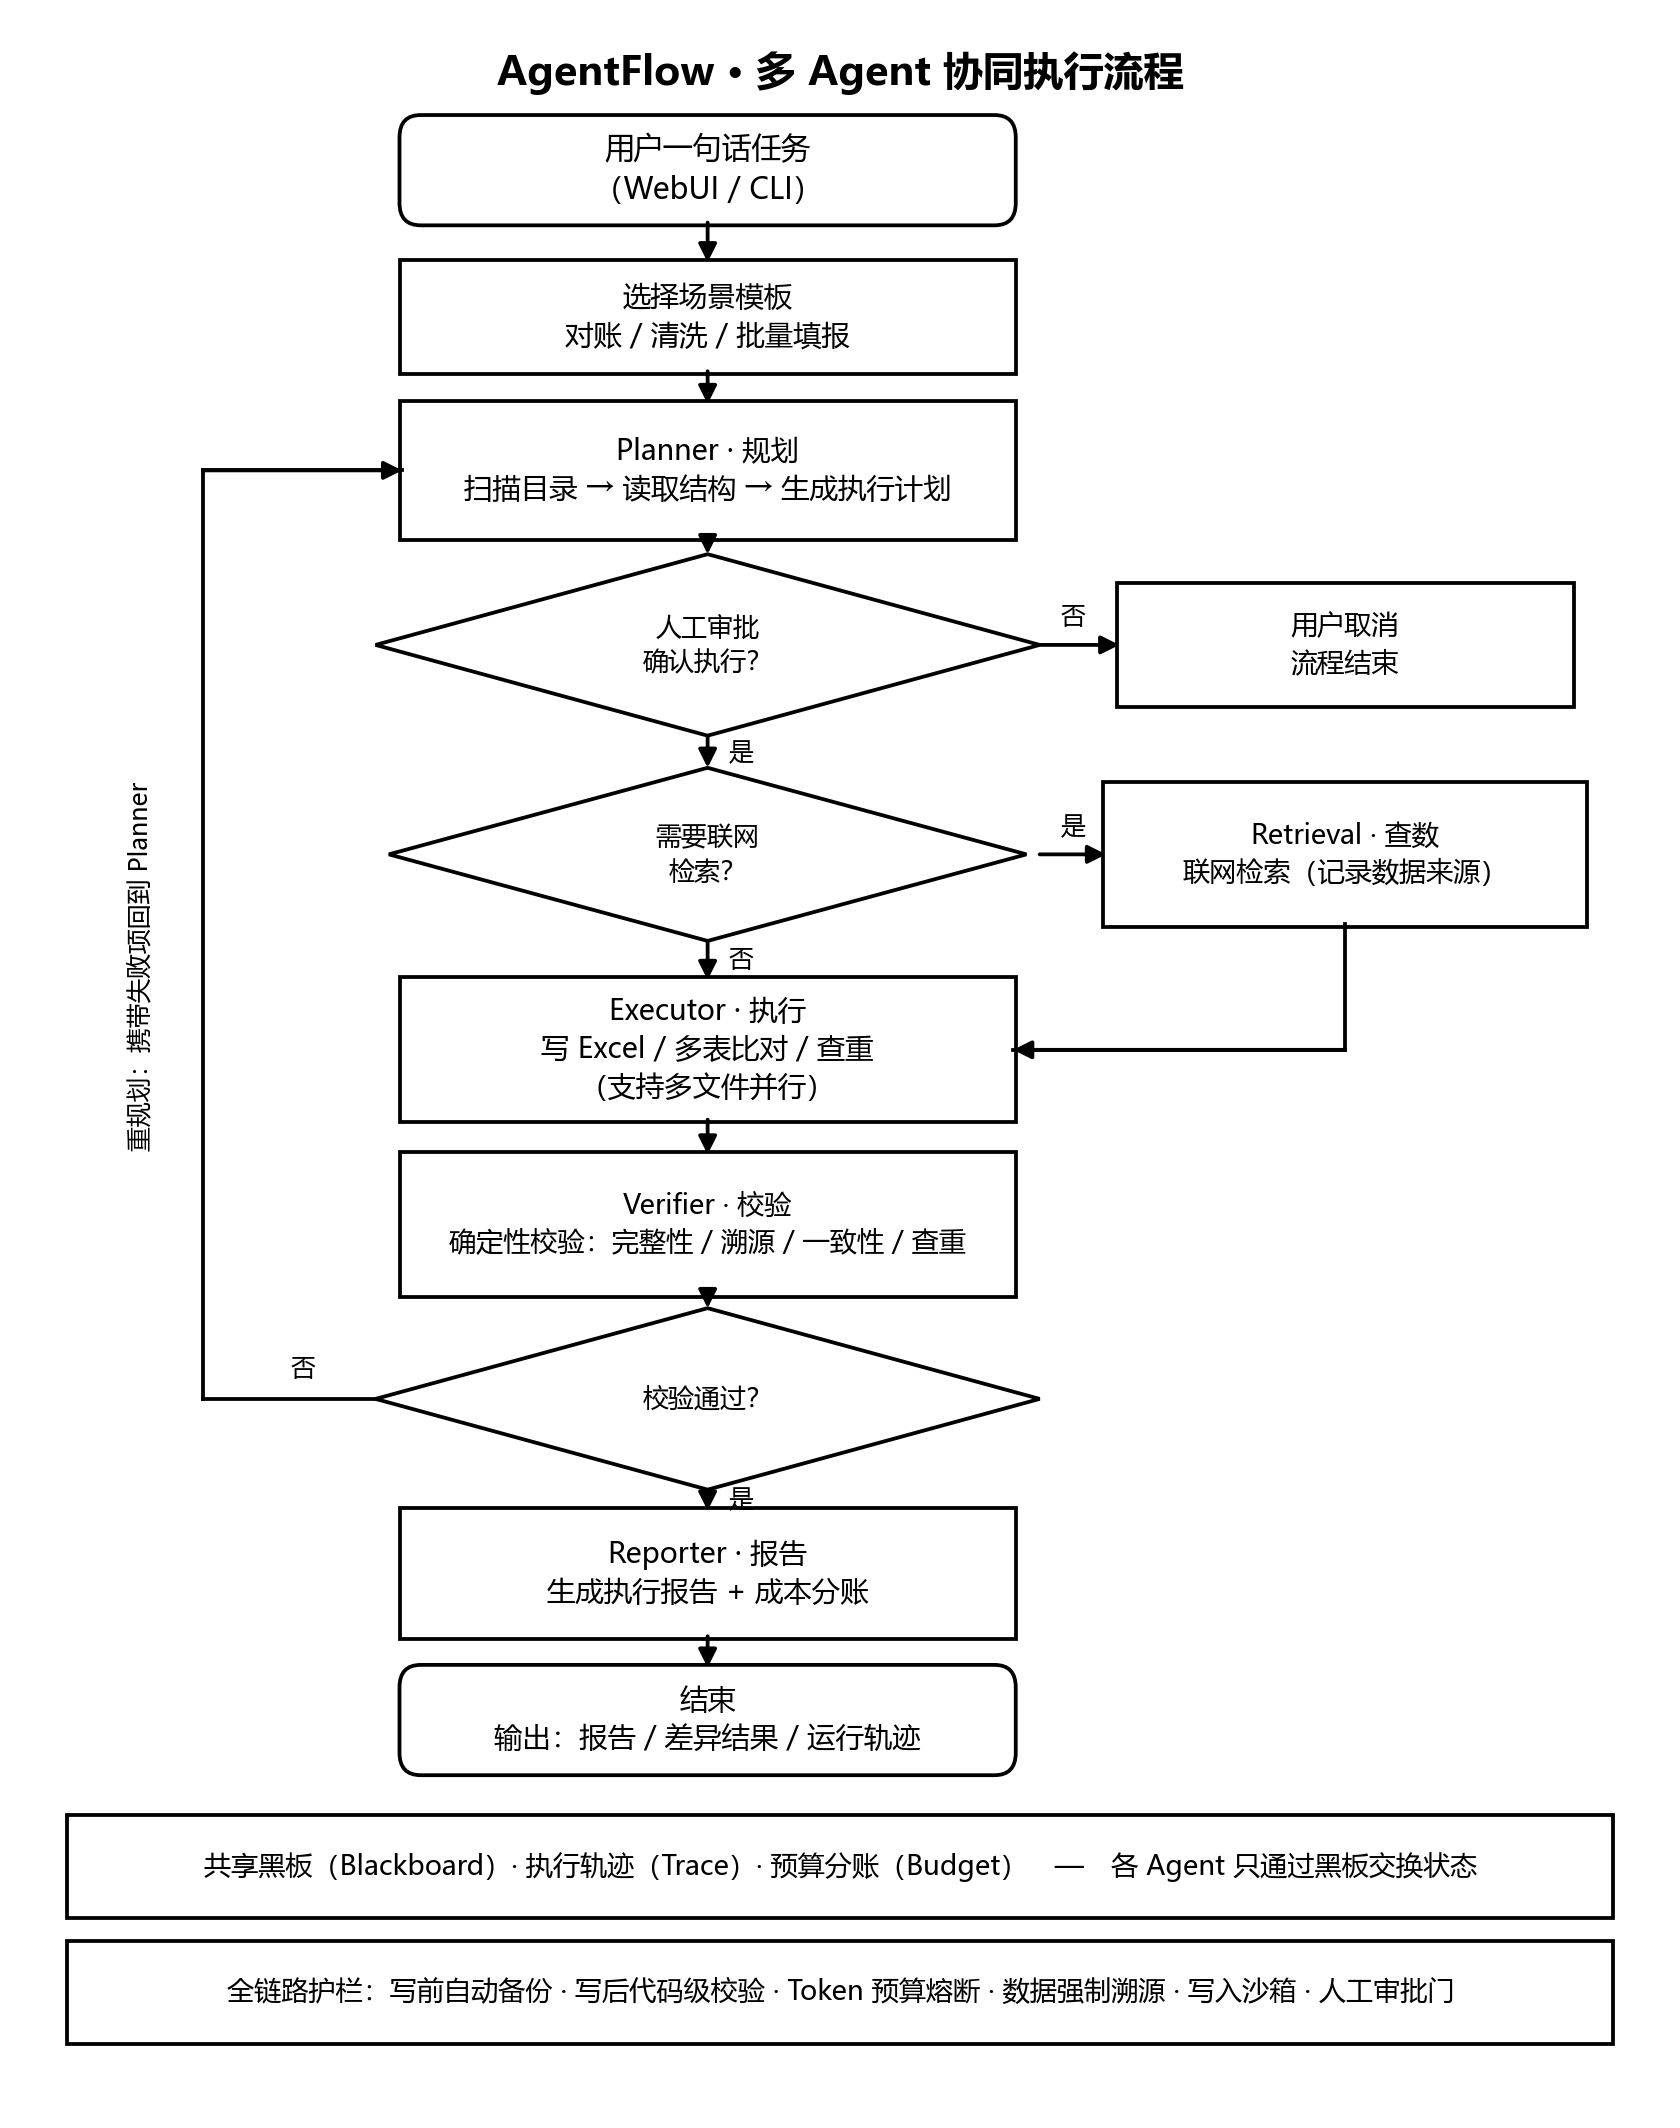
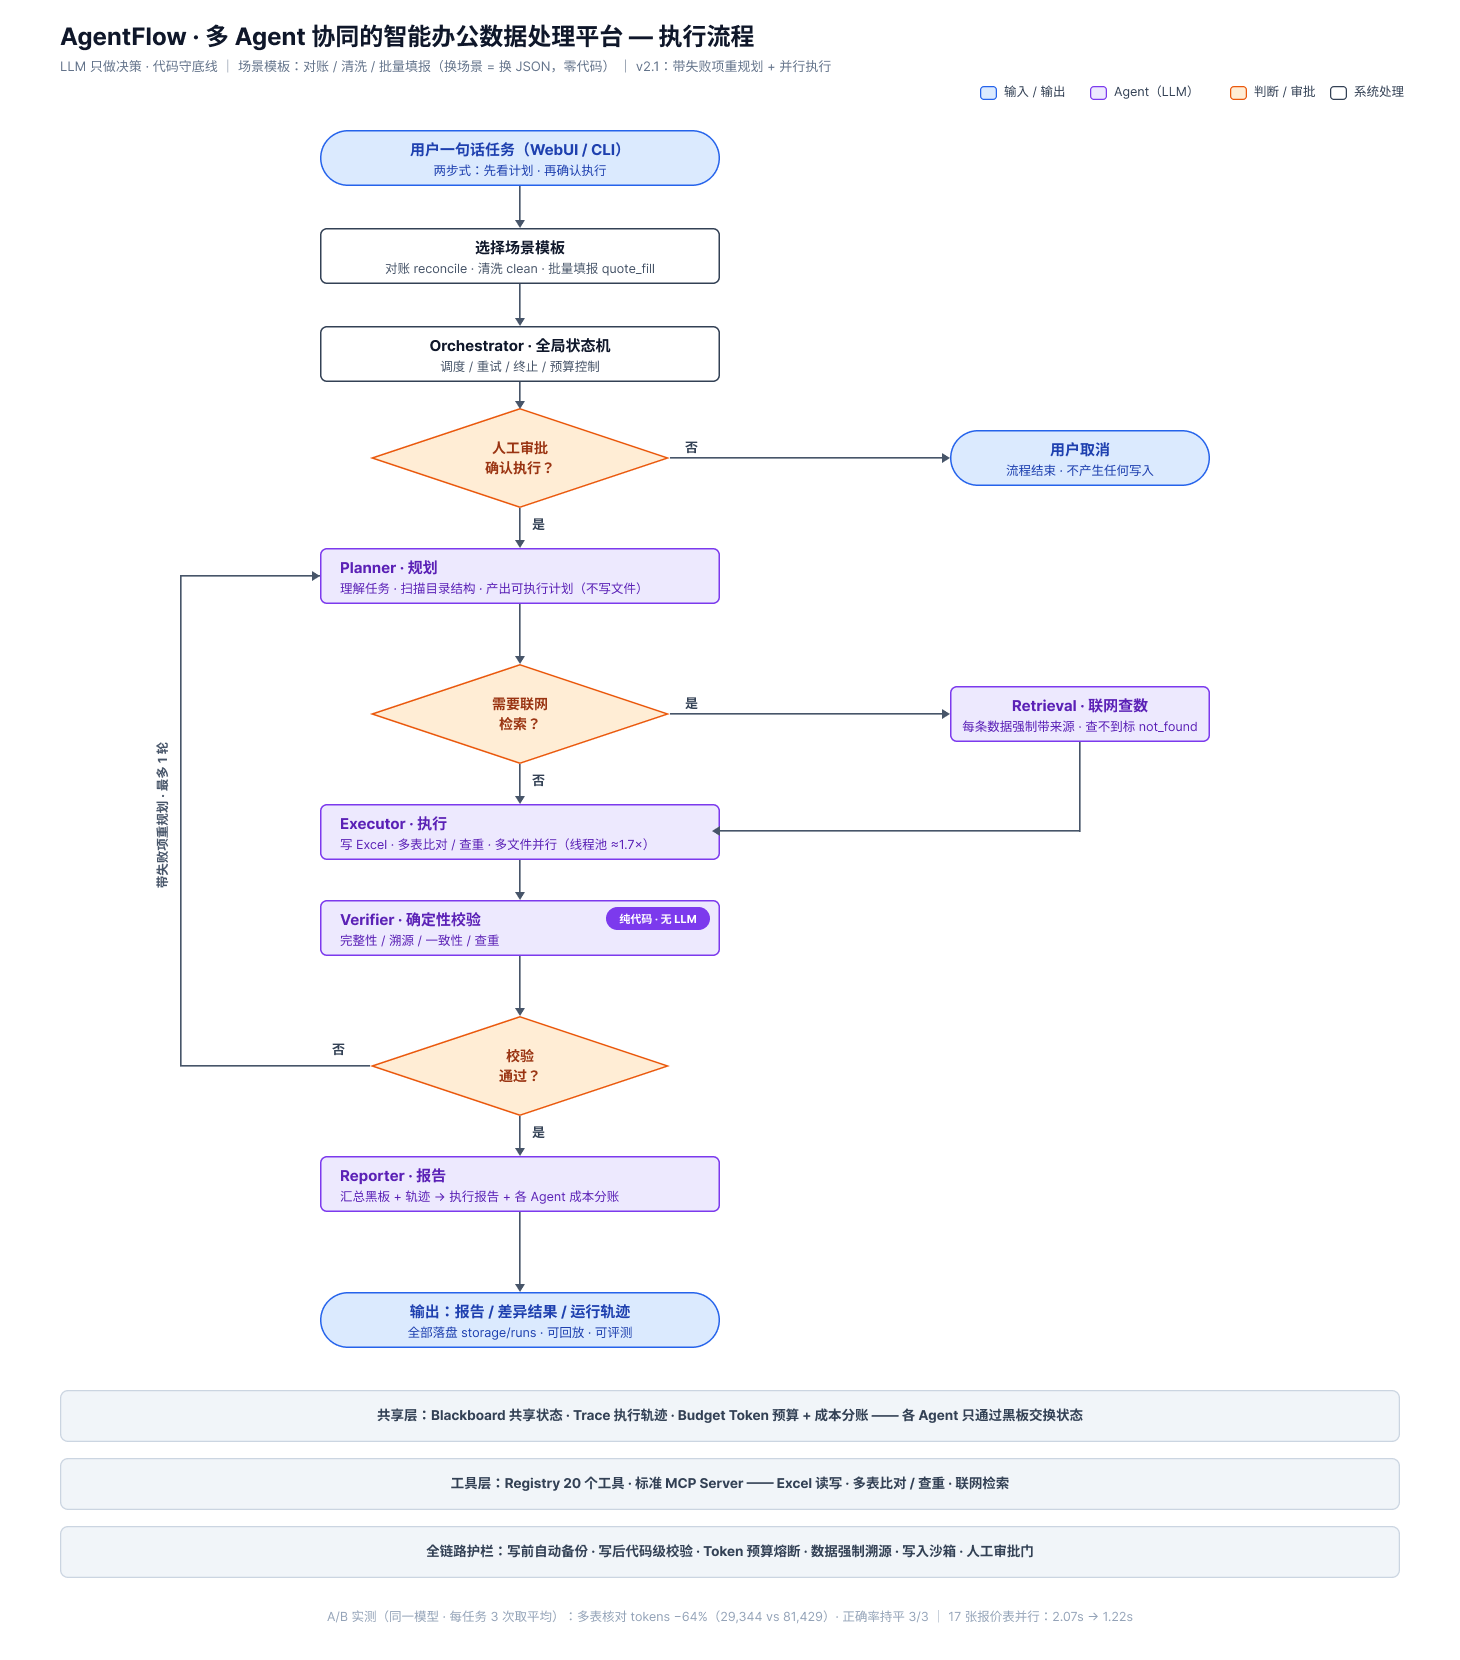
Add files via upload

diff --git a/projects.html b/projects.html
@@ -53,11 +53,11 @@
       </div>
 
       <div class="imgs single">
-        <figure class="img-box"><img src="images/p1_agentflow.png" alt="AgentFlow 界面"><figcaption>AgentFlow 界面</figcaption></figure>
+        <figure class="img-box"><img src="images/agentflow_flow.png" alt="AgentFlow 流程图"><figcaption>AgentFlow 流程图 · Figma 绘制</figcaption></figure>
       </div>
 
       <div class="imgs single">
-        <figure class="img-box"><img src="images/agentflow_flow.png" alt="AgentFlow 流程图"><figcaption>AgentFlow 流程图</figcaption></figure>
+        <figure class="img-box"><img src="images/p1_agentflow.png" alt="AgentFlow 界面"><figcaption>AgentFlow 界面</figcaption></figure>
       </div>
 
       <div class="card" style="margin-top:26px;background:var(--bg-warm);">
@@ -91,13 +91,13 @@
         <a class="dl-btn" href="https://github.com/d651vfzdgvsc2/sketch2cad" target="_blank" rel="noopener" style="background:linear-gradient(120deg,#16324F,#1F4468);box-shadow:0 4px 12px rgba(22,50,79,.25);"><span class="ic">↗</span> 查看源码（GitHub）</a>
       </div>
 
+      <div class="imgs single">
+        <figure class="img-box"><img src="images/sketch2cad_flow.png" alt="Sketch2CAD 流程图"><figcaption>Sketch2CAD 流程图 · Figma 绘制</figcaption></figure>
+      </div>
+
       <div class="imgs">
         <figure class="img-box"><img src="images/p2_cad.png" alt="CAD 矢量化效果"><figcaption>CAD 矢量化效果</figcaption></figure>
         <figure class="img-box"><img src="images/p3_mountain.jpg" alt="假山 / CAD 矢量化"><figcaption>假山 / CAD 矢量化工作流</figcaption></figure>
-      </div>
-
-      <div class="imgs single">
-        <figure class="img-box"><img src="images/sketch2cad_flow.png" alt="Sketch2CAD 流程图"><figcaption>Sketch2CAD 流程图</figcaption></figure>
       </div>
 
       <div class="card" style="margin-top:26px;background:var(--bg-warm);">
@@ -126,11 +126,11 @@
       </div>
 
       <div class="imgs single">
-        <figure class="img-box"><img src="images/p2_prompt.png" alt="Prompt 项目界面"><figcaption>Prompt 项目界面</figcaption></figure>
+        <figure class="img-box"><img src="images/ppt_flow.png" alt="执行流程图"><figcaption>执行流程图 · Figma 绘制</figcaption></figure>
       </div>
 
       <div class="imgs single">
-        <figure class="img-box"><img src="images/ppt_flow.png" alt="执行流程图"><figcaption>执行流程图</figcaption></figure>
+        <figure class="img-box"><img src="images/p2_prompt.png" alt="Prompt 项目界面"><figcaption>Prompt 项目界面</figcaption></figure>
       </div>
 
       <div class="card" style="margin-top:26px;background:var(--bg-warm);">

diff --git a/index.html b/index.html
@@ -80,6 +80,7 @@
         <li>Prompt Engineering 与视觉大模型应用；图像矢量化（OpenCV / RANSAC）</li>
         <li>Node.js / Express / RESTful API 后端开发与本地数据持久化</li>
         <li>AI 开发工具：Codex / Claude Code / OpenCode；需求拆解、PRD 编写与专利方案整理</li>
+        <li>设计工具：Figma（流程图 / 界面原型绘制）</li>
       </ul>
     </div>
   </div>

diff --git a/contact.html b/contact.html
@@ -60,6 +60,7 @@
       <span class="chip">OpenCode</span>
       <span class="chip">Codex / Claude Code</span>
       <span class="chip">WorkBuddy</span>
+      <span class="chip">Figma</span>
     </div>
     <p style="font-size:14px;color:var(--muted);margin:20px 0 10px;">通用证书</p>
     <div class="techchips">
